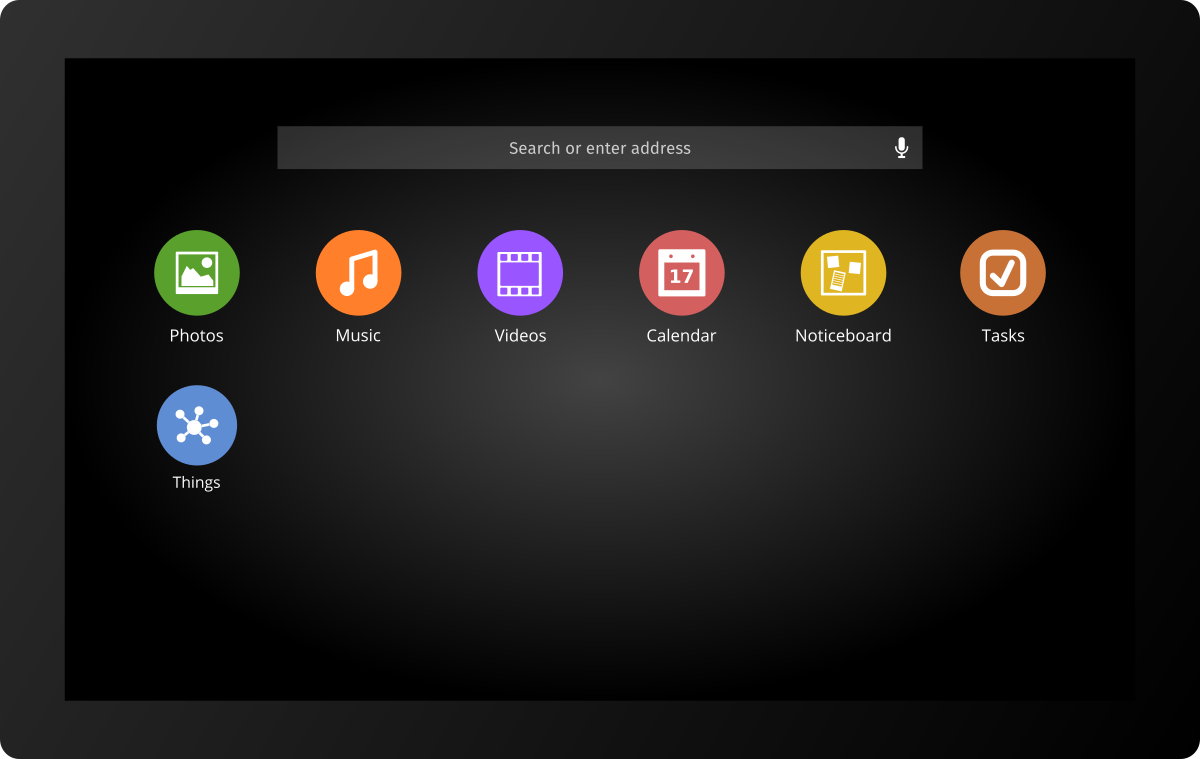
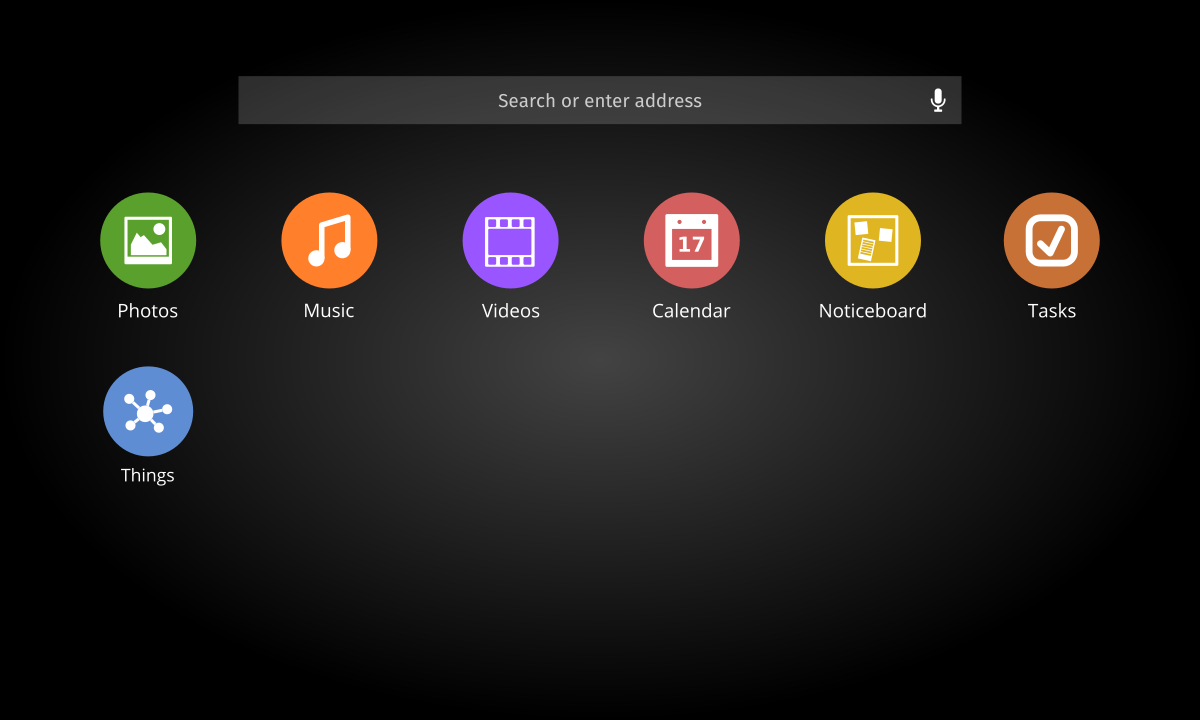
Replace mockup borders with box-shadow

diff --git a/home.css b/home.css
@@ -8,6 +8,7 @@
 
 .mockup {
 	width: 60rem;
+	box-shadow: 0 0 0.5em black;
 }
 
 .detail {
@@ -18,11 +19,11 @@
 }
 
 #webian_shell_mockup, #webian_shell_detail {
-	float: right;
+	float: left;
 }
 
 #webian_home_mockup, #webian_home_detail {
-	float: left;
+	float: right;
 }
 
 .section_content {

diff --git a/home/home.css b/home/home.css
@@ -33,6 +33,7 @@ h3 {
 
 img.mockup {
 	width: 75rem;
+	box-shadow: 0 0 0.5em black;
 }
 
 footer {

diff --git a/shell/shell.css b/shell/shell.css
@@ -32,6 +32,7 @@ h3 {
 
 img.mockup {
 	width: 75rem;
+	box-shadow: 0 0 0.5em black;
 }
 
 p {
